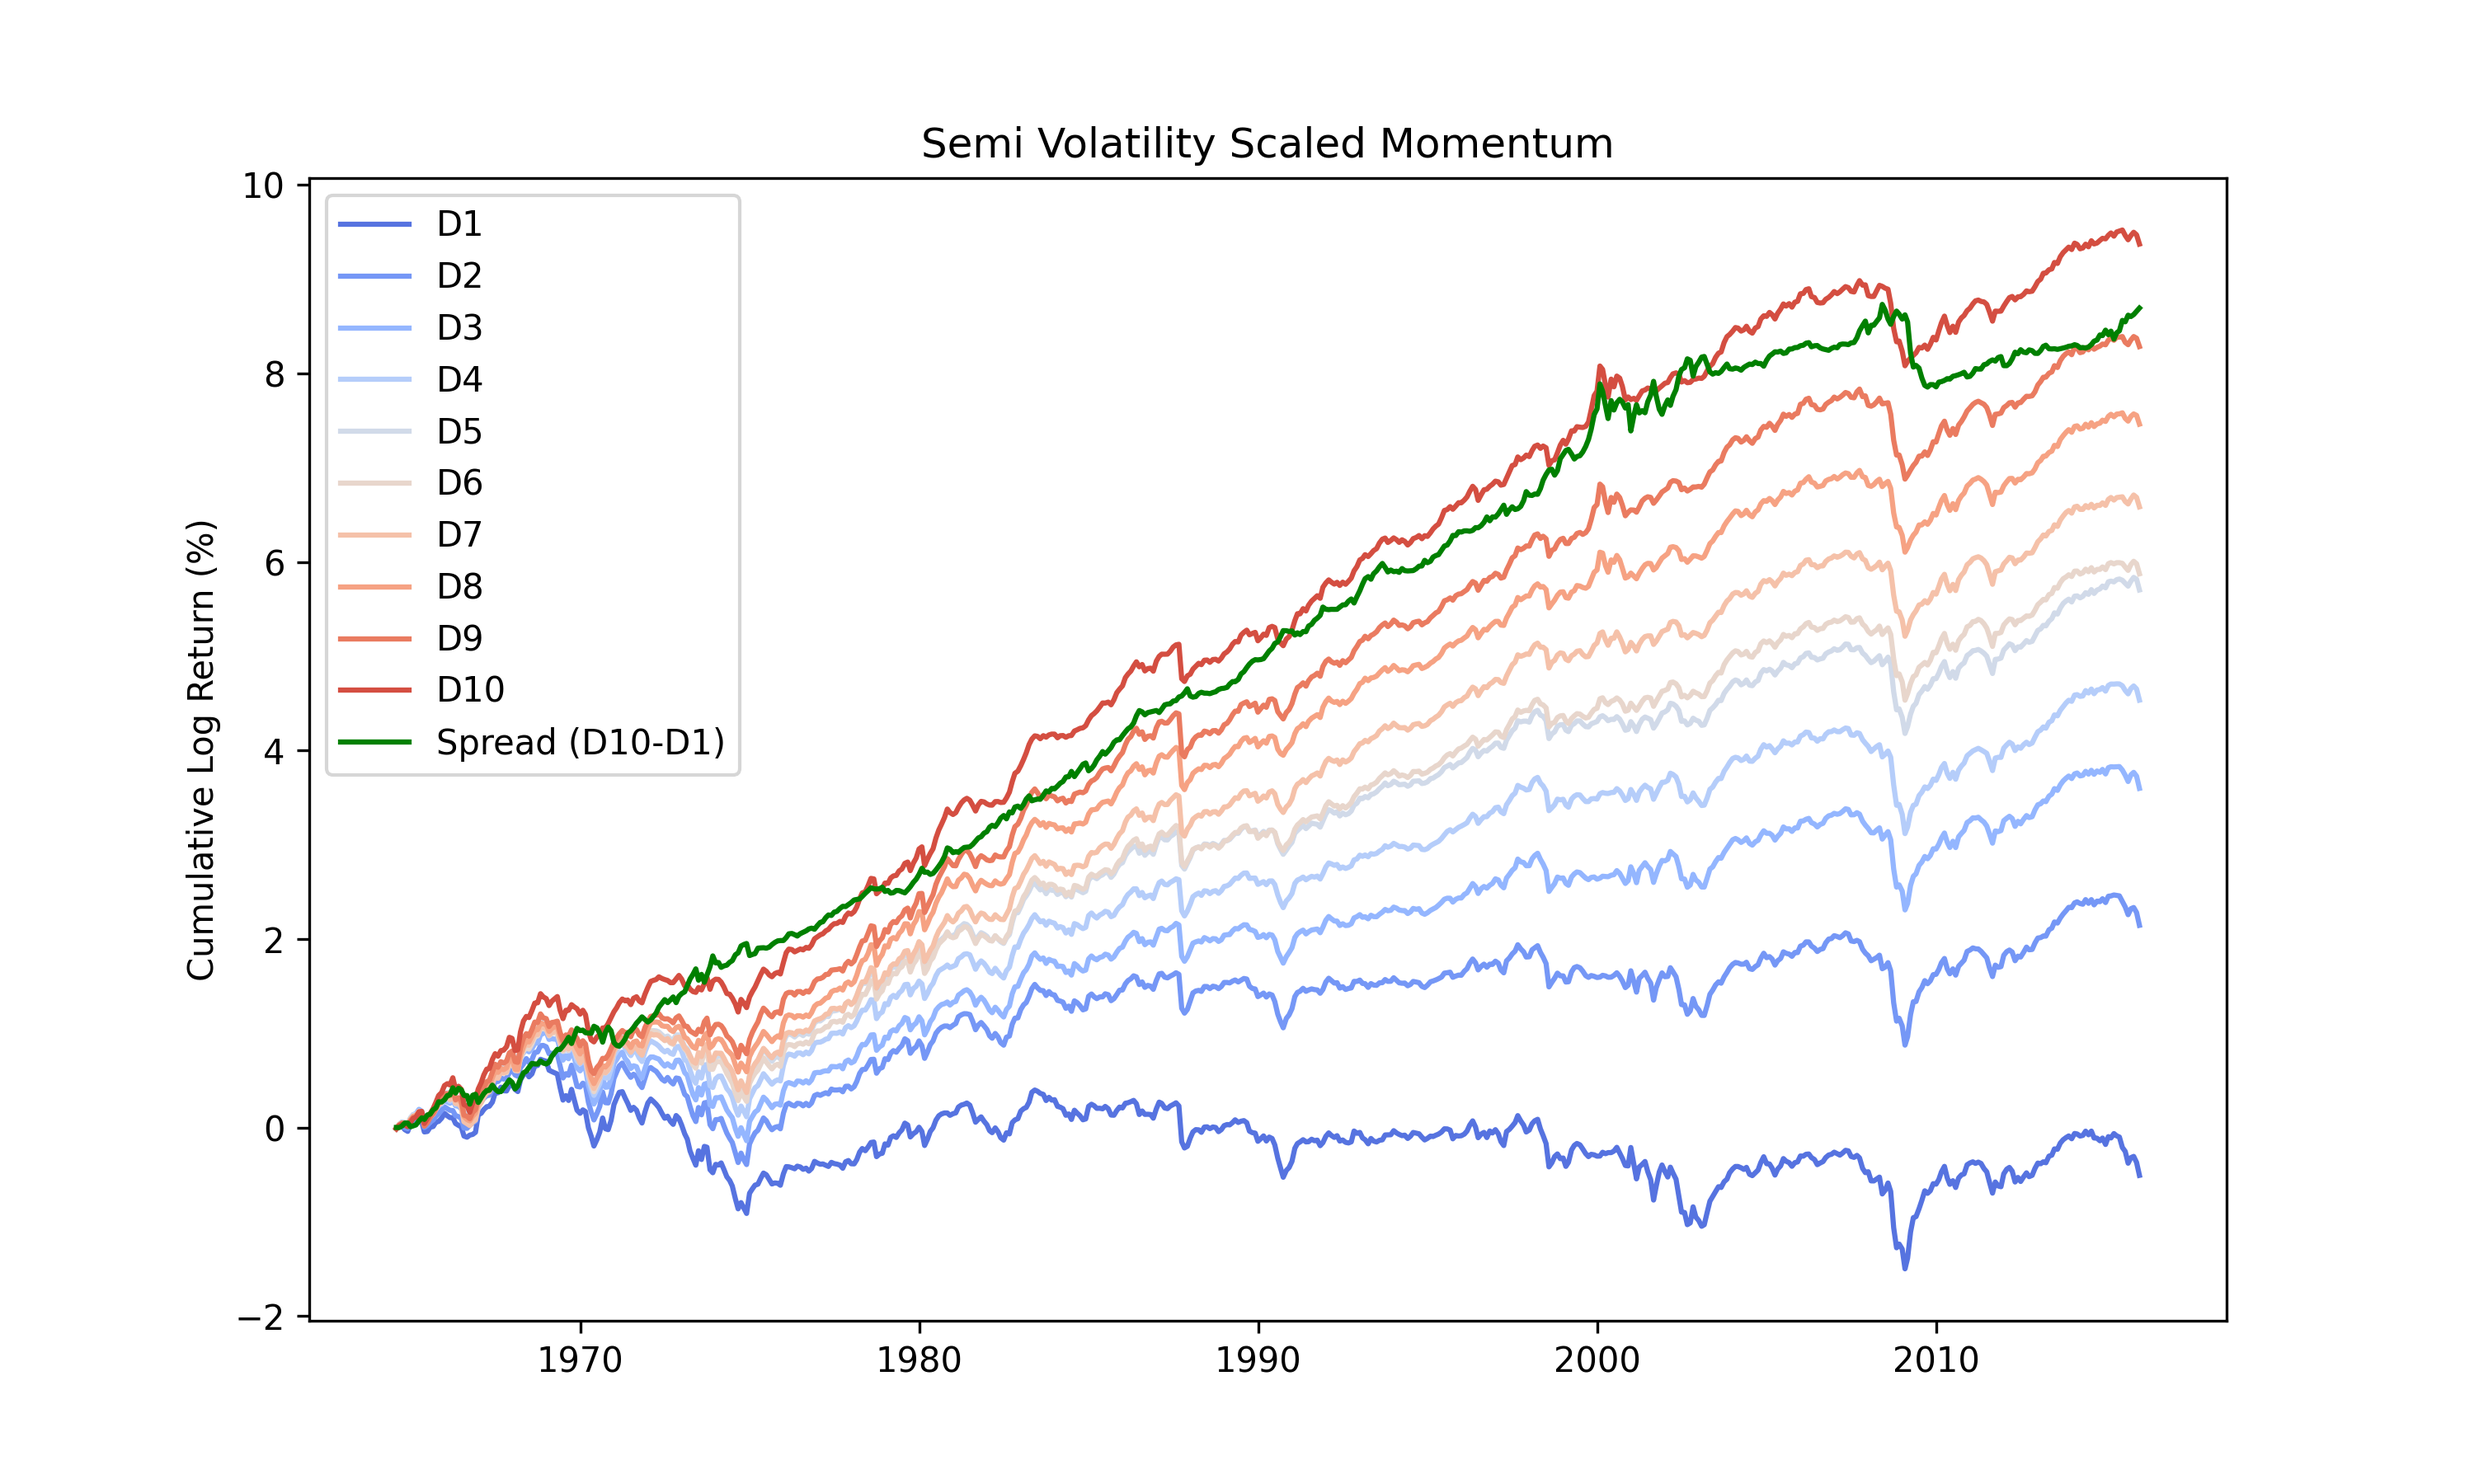
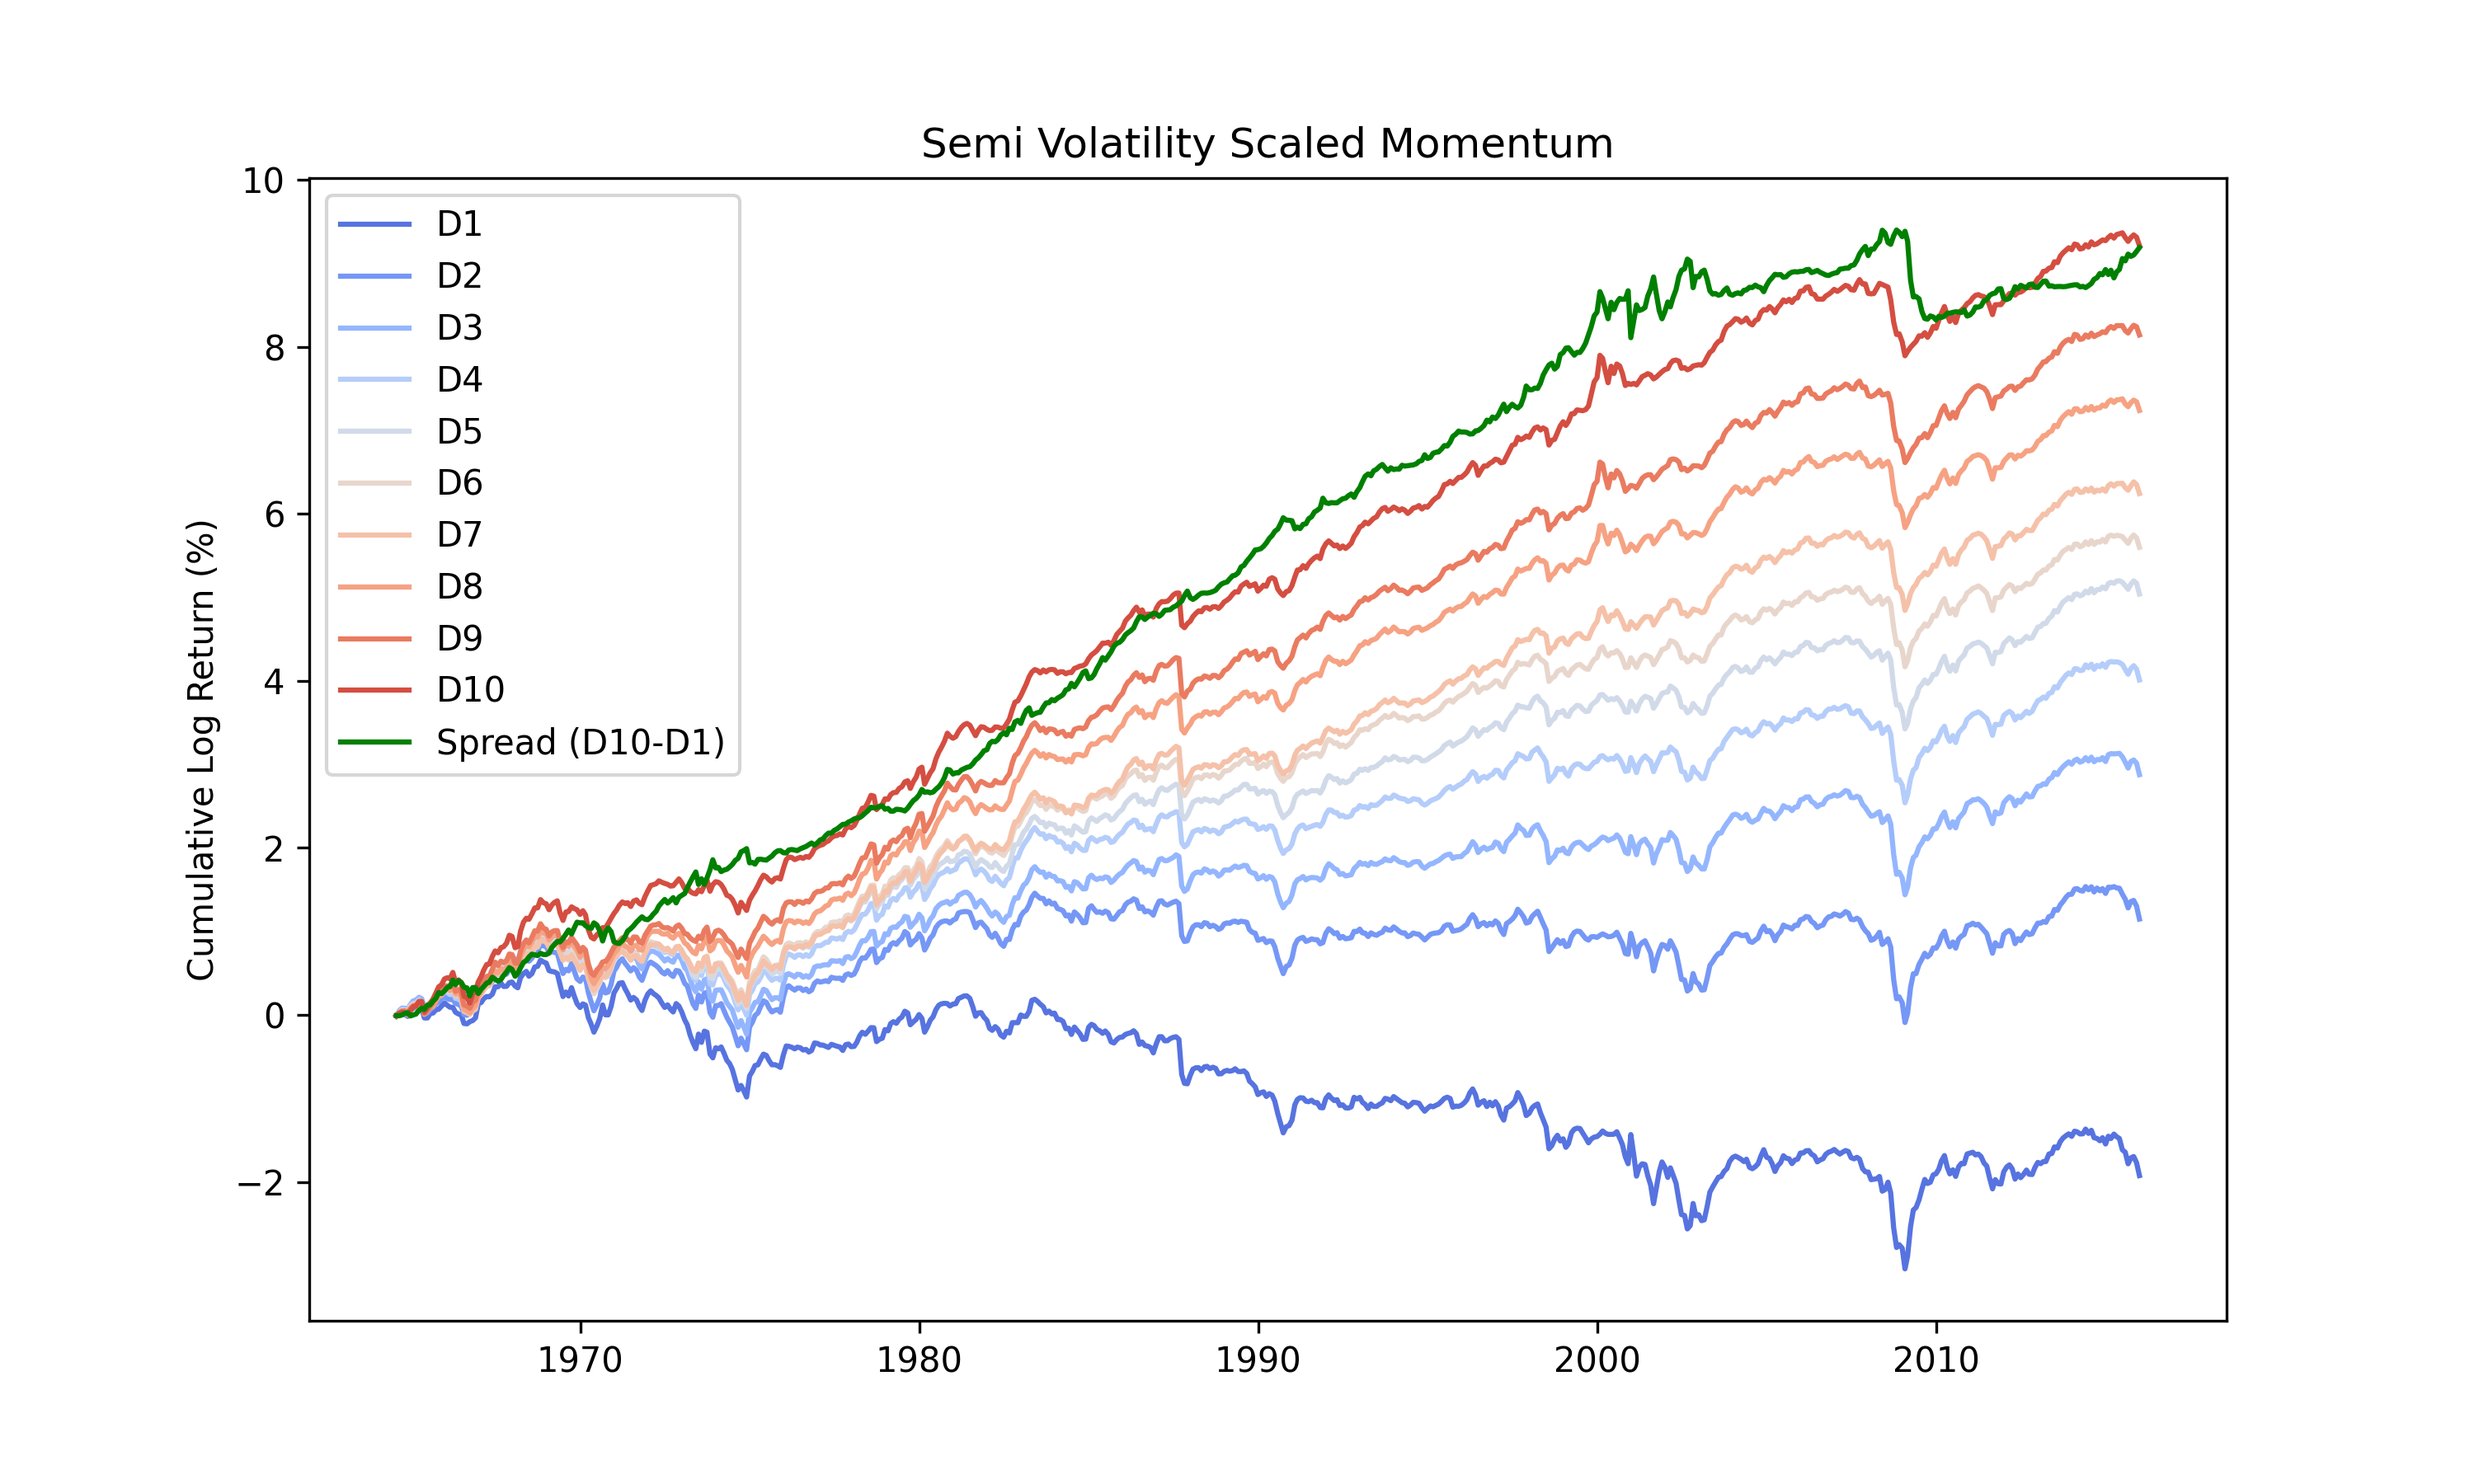
Updated results.

Changed region(s): [[0.155, 0.1556, 0.868, 0.8089], [0.775, 0.7778, 0.806, 0.8089], [0.093, 0.2178, 0.124, 0.2489]]

diff --git a/research/experiments/experiment_6.py b/research/experiments/experiment_6.py
@@ -8,9 +8,7 @@ from pathlib import Path
 import great_tables as gt
 
 # Constants
-START_DATE = dt.date(
-    2016, 1, 1
-)  # instead of 2018 so that we get the whole sample of observations starting in 2018
+START_DATE = dt.date(2018, 1, 1)
 END_DATE = dt.date(2024, 12, 31)
 VOL_TARGET = 4.35 / 100
 LAMBDA = 1  #  .25

diff --git a/research/experiments/experiment_7.py b/research/experiments/experiment_7.py
@@ -19,7 +19,8 @@ def experiment_7():
 
     signal_names = ["momentum", "constant_volatility_scaled_momentum", "semi_volatility_scaled_momentum"]
     filter_names = [
-        "low-price-stocks",
+        "penny-stocks",
+        "micro-caps",
         "null-signal",
     ]
 

diff --git a/research/experiments/experiment_8.py b/research/experiments/experiment_8.py
@@ -19,7 +19,8 @@ def experiment_8():
 
     signal_names = ["momentum", "constant_volatility_scaled_momentum", "semi_volatility_scaled_momentum"]
     filter_names = [
-        "low-price-stocks",
+        "penny-stocks",
+        "micro-caps",
         "null-signal",
     ]
 

diff --git a/research/experiments/experiment_9.py b/research/experiments/experiment_9.py
@@ -19,7 +19,8 @@ def experiment_9():
 
     signal_names = ["momentum", "constant_volatility_scaled_momentum", "semi_volatility_scaled_momentum"]
     filter_names = [
-        "low-price-stocks",
+        "penny-stocks",
+        "micro-caps",
         "null-signal",
     ]
 
